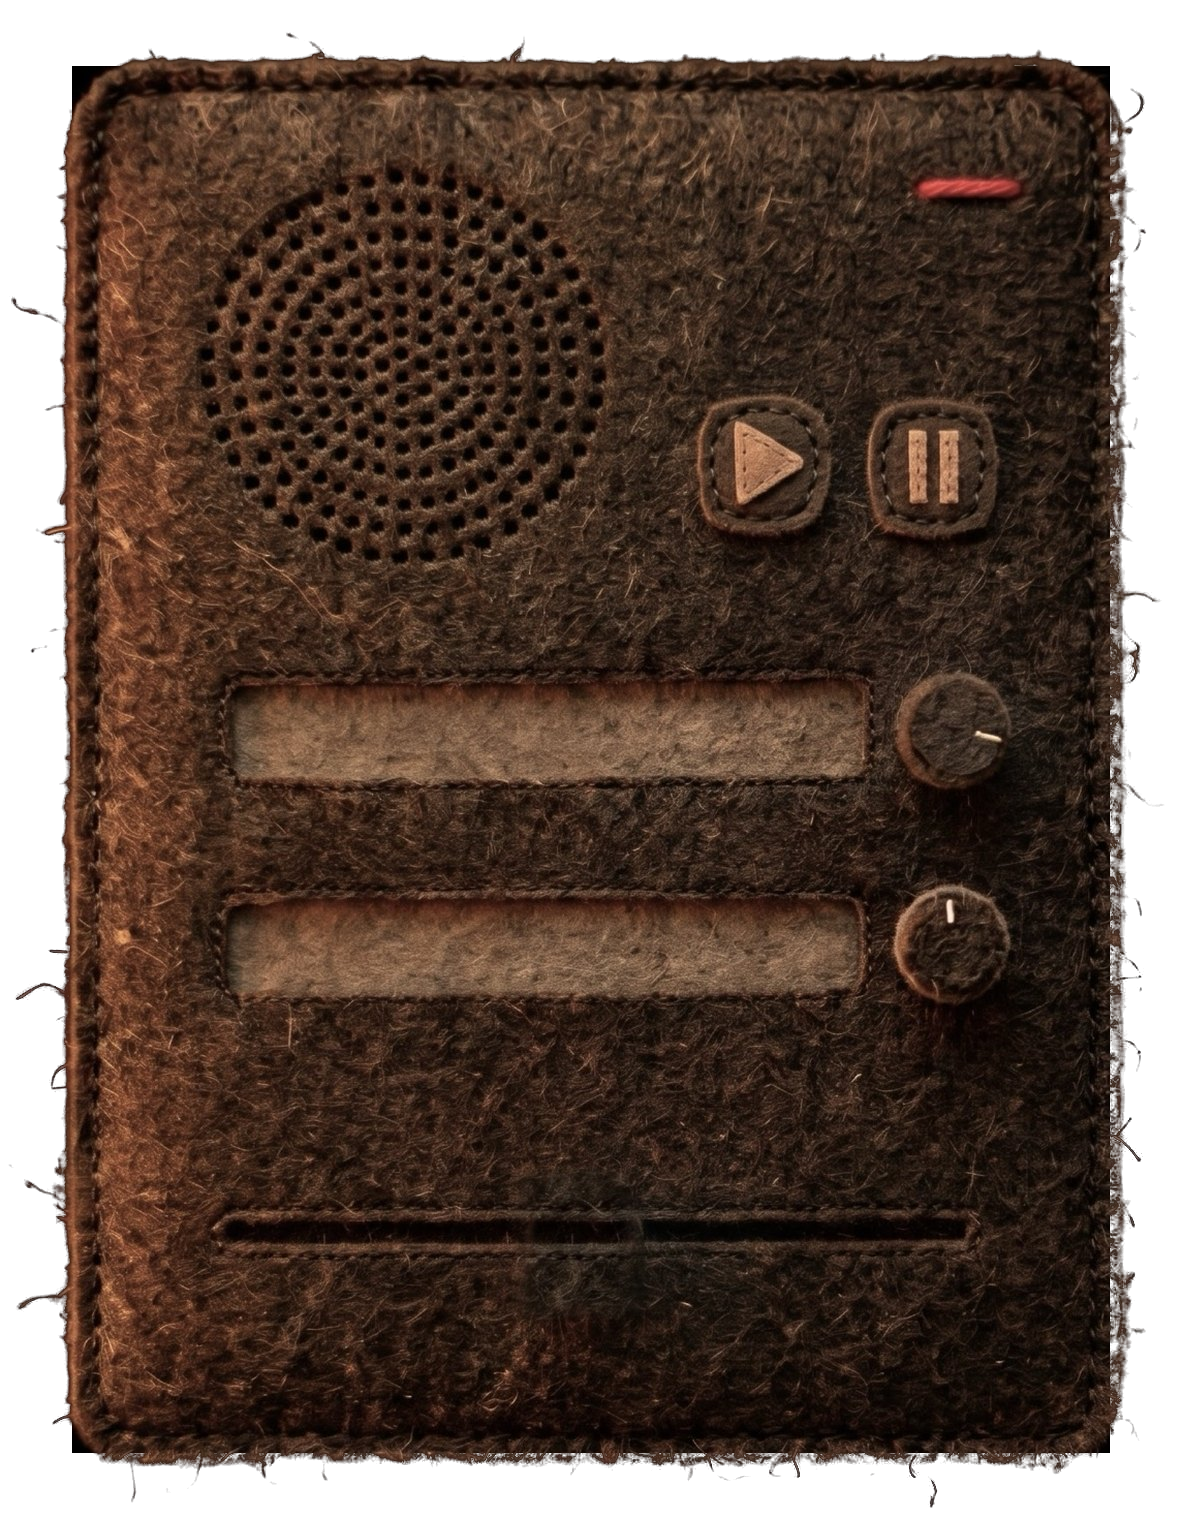
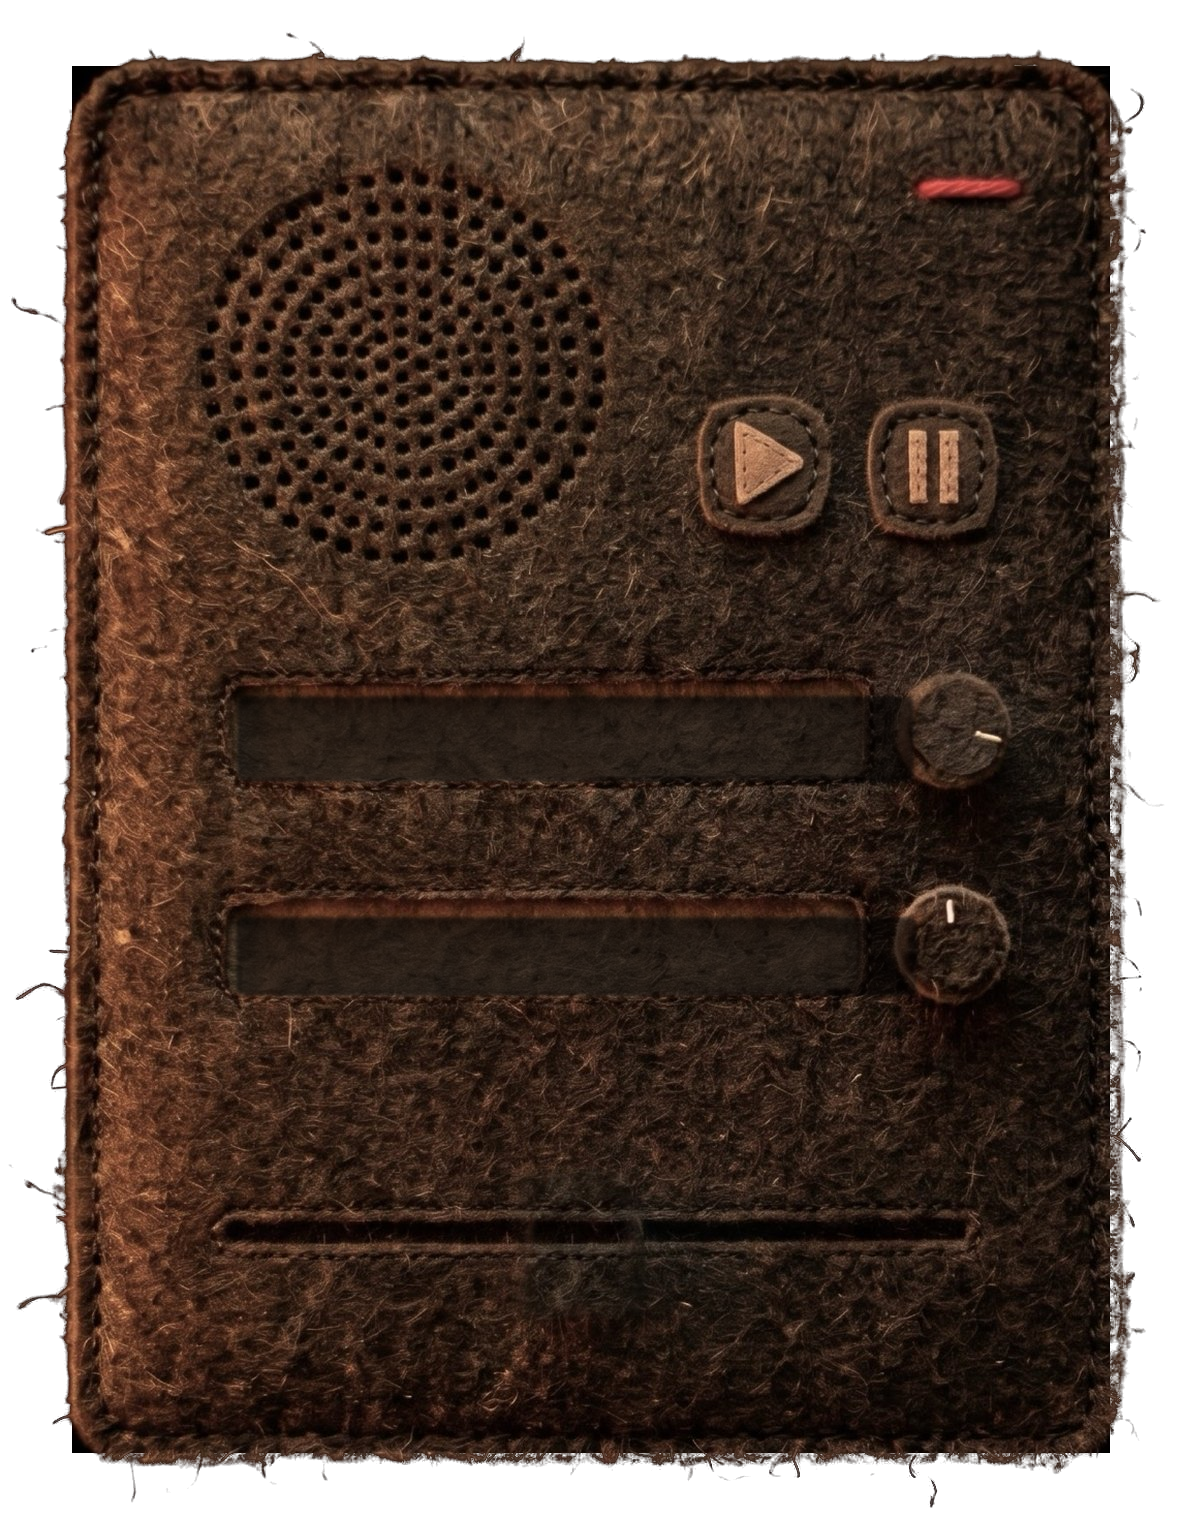
Night Audio Player: dark windows with light grey names. Drawings: ink and fills draw without a blur (lighter, for smoother notebook page turns)
Claude-Session: https://claude.ai/code/session_01NDsvQ4w6b4M39K7iEhCswz

Changed region(s): [[0.1827, 0.5879, 0.7919, 0.6807], [0.1827, 0.4332, 0.7919, 0.526]]

diff --git a/src/strokes.js b/src/strokes.js
@@ -205,7 +205,7 @@ export function inkD(st, w) {
 //   where it crosses other colour; grain: a slightly rough, pencil-like edge; inner: the blur only inside the
 //   edge (a darker rim, like dried watercolour; drawn on the phone only)
 export function layersFor(st, w) {
-  if (st.f) return [{ d: fillD(st, w), fill: true, alpha: 0.94, blur: 0.5 }];
+  if (st.f) return [{ d: fillD(st, w), fill: true, alpha: 0.94 }];
   const lw = Math.max(1, (st.s || 0.01) * w);
   const b = st.b || 'ink';
   const light = /^#f{3,6}$/i.test(st.c || '') || /^#f1e8d8$/i.test(st.c || ''); // white or cream: lighter than the paper's shadows, so no multiply
@@ -220,7 +220,7 @@ export function layersFor(st, w) {
     ];
   }
   if (b === 'pencil') return [{ d: strokeD(st, w), width: Math.max(1, lw * 0.5), alpha: 0.82, grain: true }];
-  return [{ d: inkD(st, w), fill: true, alpha: 1, blur: 0.3 }];
+  return [{ d: inkD(st, w), fill: true, alpha: 1 }]; // (no blur: lighter to draw, so pages snapshot and turn smoothly)
 }
 
 // ---- Shapes: drag on the page to draw one; it's kept as an ordinary closed stroke (so the brushes, the eraser

diff --git a/src/components/TapePlayer.js b/src/components/TapePlayer.js
@@ -85,7 +85,7 @@ export default function TapePlayer({ onMenu }) {
   // a window: the choice (or "Select …") in white, left-aligned and in the middle of the dark felt from top to bottom
   const windowText = (box, text, empty) => (
     <View pointerEvents="none" style={[at(...box), styles.window, { paddingHorizontal: 44 * f }]}>
-      <Text numberOfLines={1} adjustsFontSizeToFit minimumFontScale={0.7} style={[styles.choice, { fontSize: 64 * f, lineHeight: 76 * f }, s.night && { color: '#0d0a08' }, empty && { opacity: 0.85 }]}>{text}</Text>
+      <Text numberOfLines={1} adjustsFontSizeToFit minimumFontScale={0.7} style={[styles.choice, { fontSize: 64 * f, lineHeight: 76 * f }, s.night && { color: '#c9c3bb' }, empty && { opacity: 0.85 }]}>{text}</Text>
     </View>
   );
   return (
